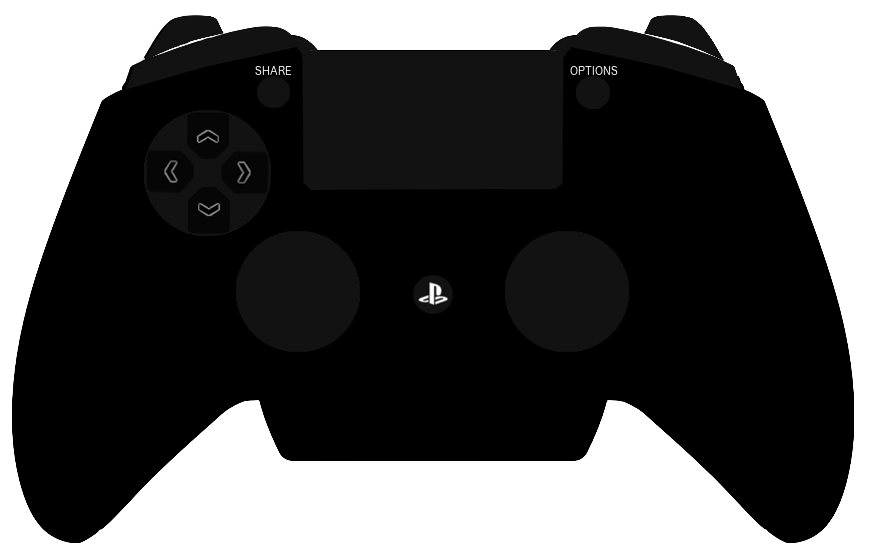
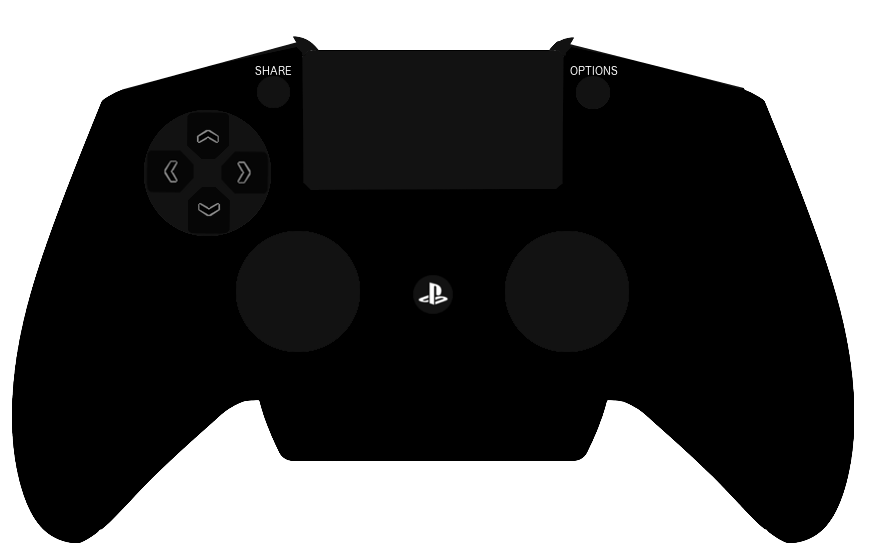
Added disconnected image. Updated the base, and positions of the bumpers

Changed region(s): [[0.6451, 0.0307, 0.8601, 0.1534], [0.1229, 0.0307, 0.3379, 0.1534]]

diff --git a/raiju.css b/raiju.css
@@ -1,8 +1,14 @@
+
 .controller.custom {
     background: url(base.png); 
     height: 558px;
     width: 866px;
 }
+
+.custom.disconnected { /* This class shows an image when the controller is disconnected */
+    background: url(disconnected.png);
+}
+
 
 .custom .triggers { /* The triggers are housed inside a div, so this sizes the div properly and positions it */
     width: 581px;
@@ -10,6 +16,10 @@
     position: absolute;
     left: 144px;
     top: 15px;
+}
+
+.custom.disconnected .trigger {
+    display: none;
 }
 
 .custom .trigger {/* These are the actual triggers themselves */
@@ -34,16 +44,20 @@
 }
 
 .custom .bumpers {
-    width: 625px;
+    width: 618px;
     height: 72px;
-    left: 120px;
-    top: 27px;
+    left: 125px;
+    top:  24px;
     position: absolute;
+}
+
+.custom.disconnected .bumpers {
+    display: none;
 }
 
 .custom .bumper{
     width: 179px;
-    height: 63px;
+    height: 70px;
     background: url(bumpers.png);
 
 }
@@ -68,6 +82,10 @@
     width: 404px;
     margin-left: 240px;
     height: 96px;
+}
+
+.custom.disconnected .sticks {
+    display: none;
 }
 
 .custom .stick {
@@ -98,6 +116,15 @@
     top: 110px;
     left: 144px;
 }
+
+.custom.disconnected .dpad {
+    display: none;
+}
+
+.custom.disconnected .abxy  {
+    display: none;
+}
+
 .custom .face{
     background: url(d-pad.png);
     position: absolute;
